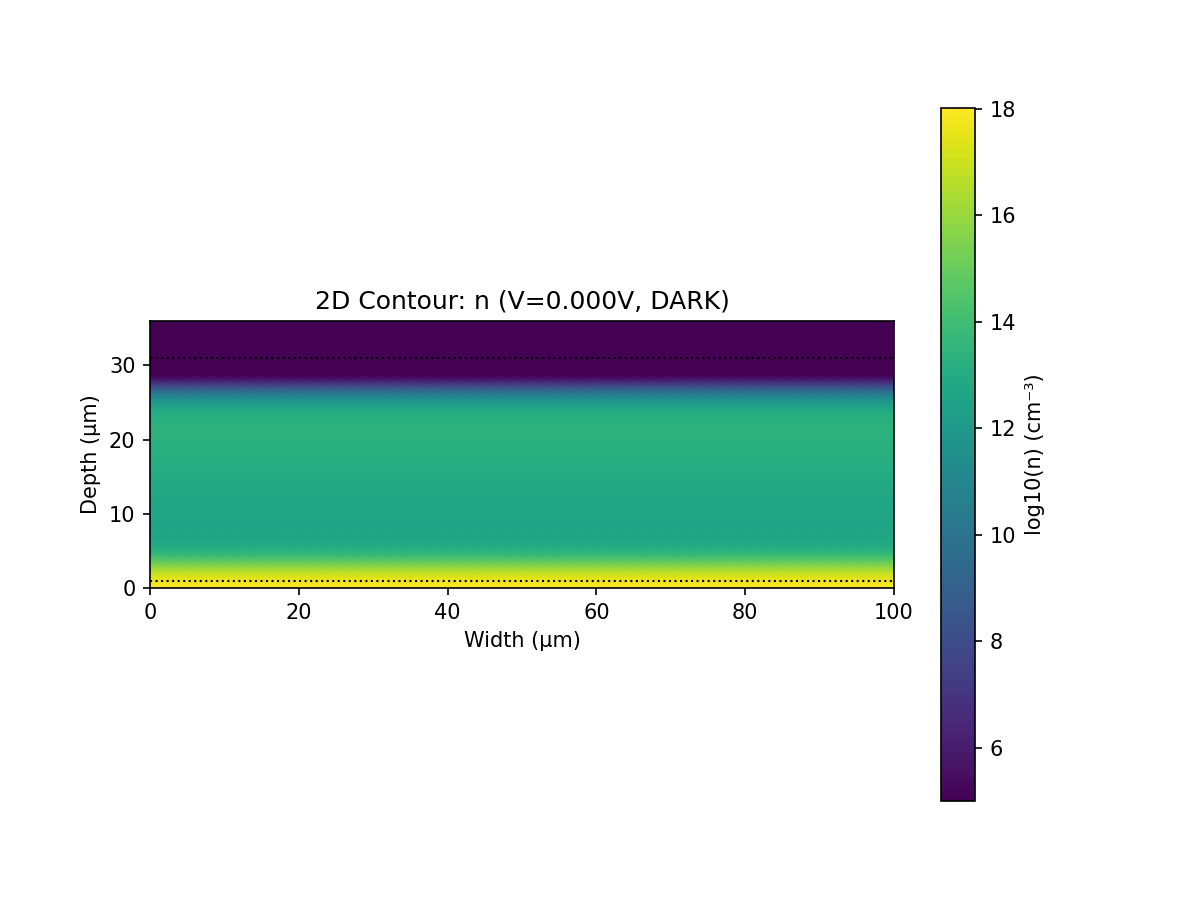
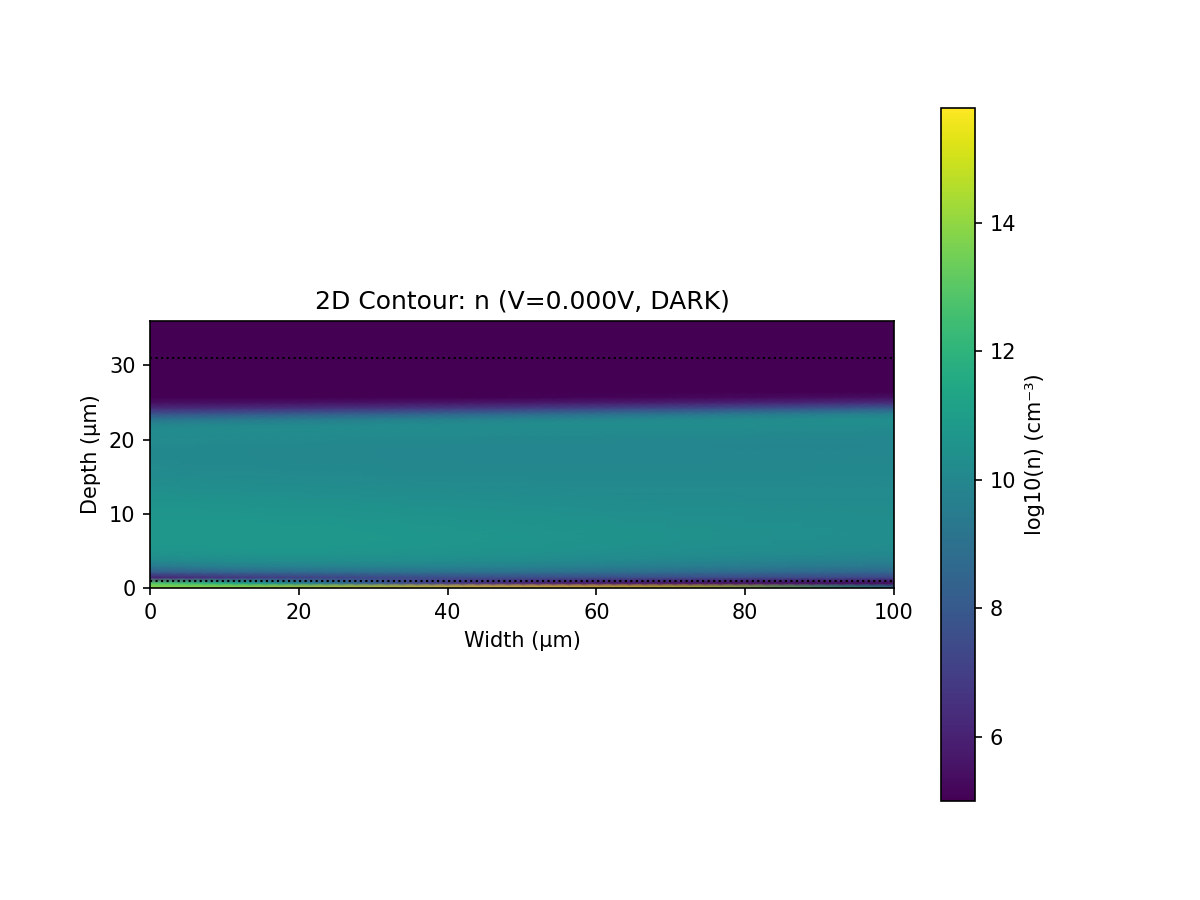
k

Changed region(s): [[0.1233, 0.4044, 0.7708, 0.6533], [0.8325, 0.2178, 0.8633, 0.2489], [0.8017, 0.8089, 0.8325, 0.84]]

diff --git a/diode_deepx/sim_diode.py b/diode_deepx/sim_diode.py
@@ -78,6 +78,26 @@ N_A_pplus = 1e18
 # Define Geometry in MICRONS
 geom = dde.geometry.Rectangle([0, 0], [width_um, y_total_um])
 
+def get_junction_distribution(n_points):
+    # Create dense grid near junctions (y_j1_um and y_j2_um)
+    x_rand = np.random.uniform(0, width_um, n_points)
+    
+    # 50% of points uniform, 50% Gaussian distributed around junctions
+    y_uniform = np.random.uniform(0, y_total_um, n_points // 2)
+    y_j1_dense = np.random.normal(y_j1_um, 0.5, n_points // 4) # Sigma = 0.5um
+    y_j2_dense = np.random.normal(y_j2_um, 0.5, n_points // 4)
+    
+    y_combined = np.concatenate([y_uniform, y_j1_dense, y_j2_dense])
+    
+    # Clip to domain
+    y_combined = np.clip(y_combined, 0, y_total_um)
+    
+    # Shuffle
+    xy = np.vstack((x_rand, y_combined)).T
+    np.random.shuffle(xy)
+    return xy.astype(np.float32)
+
+
 # --- Robustness: Characteristic Scales ---
 N_max = max(N_D_nplus, N_A_pplus)
 R_thermal = n_i / min(tau_n, tau_p)
@@ -105,7 +125,67 @@ def doping_profile(x_in):
 
     return Net_Doping
 
+def analytical_guess(x):
+    """
+    Returns [Psi_guess, Phi_n_guess, Phi_p_guess]
+    Approximates a step junction at equilibrium (V=0).
+    """
+    y = x[:, 1:2]
+    
+    # Approximate Psi based on doping regions
+    # n+ region
+    psi_n = V_t * np.log(N_D_nplus / n_i)
+    # p region
+    psi_p = -V_t * np.log(N_A_p / n_i)
+    # p+ region
+    psi_pp = -V_t * np.log(N_A_pplus / n_i)
+    
+    # Smooth transition using tanh (similar to doping profile)
+    k = 20.0 # MATCH THE DOPING PROFILE K VALUE EXACTLY
+    sig_1 = 0.5 * (1 + np.tanh(k * (y - y_j1_um)))
+    sig_2 = 0.5 * (1 + np.tanh(k * (y - y_j2_um)))
+    
+    psi_guess = psi_n * (1 - sig_1) + psi_p * (sig_1 * (1 - sig_2)) + psi_pp * sig_2
+    
+    # At V=0 equilibrium, Phi_n and Phi_p should be 0.0 everywhere
+    phi_n_guess = np.zeros_like(y)
+    phi_p_guess = np.zeros_like(y)
+    
+    return np.hstack((psi_guess, phi_n_guess, phi_p_guess))
 
+def pretrain_analytical(model, iters=5000):
+    print(">>> Pre-training on Analytical Guess (Stabilizing Physics)...")
+    
+    # Generate points
+    X_train = get_junction_distribution(2000)
+    Y_train = analytical_guess(X_train)
+    
+    # Define a standard MSE loss for fitting
+    def fitting_loss(y_true, y_pred):
+        return torch.mean(torch.square(y_true - y_pred))
+
+    # Standard PyTorch training loop on the model.net
+    optimizer = torch.optim.Adam(model.net.parameters(), lr=1e-3)
+    
+    model.net.train()
+    
+    # Force cast to .float() (float32) BEFORE moving to MPS device ---
+    X_tensor = torch.from_numpy(X_train).float().to(device).requires_grad_(False)
+    Y_tensor = torch.from_numpy(Y_train).float().to(device)
+    
+    start_t = time.time()
+    for i in range(iters):
+        optimizer.zero_grad()
+        y_pred = model.net(X_tensor)
+        loss = fitting_loss(Y_tensor, y_pred)
+        loss.backward()
+        optimizer.step()
+        
+        if i % 1000 == 0:
+            print(f"   Step {i}: Fitting Loss {loss.item():.2e}")
+            
+    print(f"   Pre-training complete in {time.time()-start_t:.1f}s")
+    
 # --- 3. OPTICAL GENERATION CLASS ---
 
 class OpticalGeneration:
@@ -151,30 +231,27 @@ optical_gen = OpticalGeneration()
 
 def pde_system_robust(x, u):
     """
-    Robust system with Anti-Explosion Clamping.
+    Robust QFP System with Normalized Scaling and Clamping.
     """
     psi = u[:, 0:1]
     phi_n = u[:, 1:2]
     phi_p = u[:, 2:3]
 
-    # --- 1. SAFE CARRIER CALCULATION ---
-    # Physics Limit: Max doping is ~1e18. 
-    # ln(1e18 / 1e10) = ln(1e8) ~= 18.4
-    # We clamp the exponent to 23.0 (approx 1e10 margin) to prevent NaN/Inf 
-    # but allow enough range for accumulation layers.
-    
-    limit = 23.0 
+    # --- 1. SAFE CARRIER CALCULATION (Clamping) ---
+    # We clamp the exponent to range [-30, 30]
+    # exp(30) is approx 1e13. Multiplied by n_i (1e10), this allows density up to 1e23.
+    # This is plenty for our 1e18 doping, but prevents NaN/Inf.
+    limit = 30.0 
     exp_arg_n = torch.clamp((psi - phi_n) / V_t, -limit, limit)
     exp_arg_p = torch.clamp((phi_p - psi) / V_t, -limit, limit)
 
     n = n_i * torch.exp(exp_arg_n)
     p = n_i * torch.exp(exp_arg_p)
     
-    # --- 2. Doping ---
+    # --- 2. Doping & Physics ---
     N_net = doping_profile(x)
     
-    # --- 3. Poisson's Equation ---
-    # Network outputs derivatives in [V / um] and [V / um^2]
+    # Derivatives (Remember: x is in microns, derivatives need 1/SCALE_L for cm)
     dpsi_x = dde.grad.jacobian(psi, x, i=0, j=0)
     dpsi_y = dde.grad.jacobian(psi, x, i=0, j=1)
     d2psi_x2 = dde.grad.jacobian(dpsi_x, x, i=0, j=0)
@@ -183,15 +260,19 @@ def pde_system_robust(x, u):
     # Laplacian in cm^-2
     laplacian_psi_cm = (d2psi_x2 + d2psi_y2) * (1.0 / SCALE_L)**2
     
+    # Charge Density
     rho = q * (p - n + N_net)
 
-    # SCALING POISSON: 
-    # Normalize by the maximum charge density q*N_max
+    # --- 3. SCALING FACTORS ---
+    # Poisson Scale: q * N_max
+    # Continuity Scale: N_max / tau (Order of magnitude of recombination)
     scale_poisson = q * N_max 
+    scale_continuity = N_max / min(tau_n, tau_p)
+
+    # --- 4. Poisson Equation ---
     eq1_poisson = (epsilon * laplacian_psi_cm + rho) / scale_poisson
 
-    # --- 4. Recombination & Generation ---
-    # Shockley-Read-Hall
+    # --- 5. Recombination & Generation ---
     U_num = n * p - n_i_sq
     U_den = tau_p * (n + n_i) + tau_n * (p + n_i)
     U = U_num / U_den
@@ -199,29 +280,25 @@ def pde_system_robust(x, u):
     # Optical Generation
     y_cm = x[:, 1:2] * SCALE_L
     G = optical_gen.get_generation_term(y_cm)
-
-    # --- 5. Drift-Diffusion Scaling ---
-    # The current J is huge (A/cm^2). We must normalize the CONTINUITY equation 
-    # so it produces residuals close to 1.0, not 1e20.
     
-    # Reference Current J_ref = q * D * N / L
-    # Or simpler: Normalize by the "Diffusion Rate" term: N_max / tau
-    scale_continuity = N_max / min(tau_n, tau_p)
+    # Net Rate
+    R_net = U - G
 
     # --- 6. Electron Continuity ---
+    # J_n = -q * mu_n * n * grad(phi_n)
+    # div(J_n) = -q * R_net  =>  div(mu*n*grad(phi)) = R_net
+    
     dphin_x = dde.grad.jacobian(phi_n, x, i=0, j=0) * (1.0 / SCALE_L)
     dphin_y = dde.grad.jacobian(phi_n, x, i=0, j=1) * (1.0 / SCALE_L)
 
-    # Fn flux (cm^-2 s^-1) = J/q
-    # We calculate flux directly to keep numbers slightly smaller than J
+    # Flux F = mu * n * grad(phi) (This is J/q)
     Fn_x = -mu_n * n * dphin_x
     Fn_y = -mu_n * n * dphin_y
     
-    # Divergence of Flux
     div_Fn = (dde.grad.jacobian(Fn_x, x, i=0, j=0) + \
               dde.grad.jacobian(Fn_y, x, i=0, j=1)) * (1.0 / SCALE_L)
 
-    eq2_electron = (div_Fn - G + U) / scale_continuity
+    eq2_electron = (div_Fn + R_net) / scale_continuity
 
     # --- 7. Hole Continuity ---
     dphip_x = dde.grad.jacobian(phi_p, x, i=0, j=0) * (1.0 / SCALE_L)
@@ -233,10 +310,8 @@ def pde_system_robust(x, u):
     div_Fp = (dde.grad.jacobian(Fp_x, x, i=0, j=0) + \
               dde.grad.jacobian(Fp_y, x, i=0, j=1)) * (1.0 / SCALE_L)
 
-    eq3_hole = (div_Fp - G + U) / scale_continuity
+    eq3_hole = (div_Fp + R_net) / scale_continuity
 
-    # Logarithmic Loss dampening (Optional but helpful if loss is still high)
-    # But usually, the clamp above fixes the root cause.
     return [eq1_poisson, eq2_electron, eq3_hole]
 
 
@@ -345,51 +420,55 @@ net.apply_feature_transform(feature_transform)
 
 def solve_photodiode_robust(V_bias, iters_stage1, iters_stage2, iters_stage3, initial_weights=None):
     
-    gen_status = "DARK" if optical_gen.is_dark else f"LIGHT"
+    gen_status = "DARK" if optical_gen.is_dark else "LIGHT"
     print("-" * 60)
     print(f"Solving for V_bias = {V_bias:.3f} V, {gen_status}")
 
+    # 1. Get Boundary Conditions
     bcs = get_bcs_robust(V_bias)
+    
+    # 2. SMART SAMPLING (The fix for flat profiles)
+    # We generate 2000 points, heavily focused on the junctions
+    anchors = get_junction_distribution(2000)
     
     data = dde.data.PDE(
         geom,
         pde_system_robust,
         bcs,
-        num_domain=2000,    # Reduced slightly for speed, increase if stable
-        num_boundary=500,
-        num_test=500
+        num_domain=0,      # We set this to 0 because we provide anchors
+        num_boundary=400,
+        anchors=anchors    # Explicitly use our smart distribution
     )
 
     model = dde.Model(data, net)
 
+    # 3. INITIALIZATION / PRE-TRAINING (The fix for 10^18 current)
     if initial_weights:
         model.net.load_state_dict(initial_weights)
+        print(">>> Loaded weights from previous step.")
     else:
-        # --- CRITICAL INITIALIZATION FIX ---
-        # We initialize weights to be very small (gain=0.01).
-        # This ensures initial outputs are ~0.0V, preventing exp(100) explosions.
-        def init_weights(m):
-            if isinstance(m, torch.nn.Linear):
-                torch.nn.init.xavier_normal_(m.weight, gain=0.01)
-                m.bias.data.fill_(0.0)
-        net.apply(init_weights)
+        # If no weights provided, this is the first run (V=0, Dark).
+        # We MUST pre-train on the analytical guess.
+        pretrain_analytical(model, iters=5000)
 
-    # Weights: Poisson usually converges fast, Continuity is hard.
-    # We give Continuity higher relative weight now that it's normalized correctly.
-    loss_weights = [10.0, 50.0, 50.0] + [100.0] * len(bcs)
+    # 4. LOSS WEIGHTS
+    # We give high weight to Continuity and very high weight to BCs
+    # [Poisson, Electron, Hole, BCs...]
+    loss_weights = [1.0, 20.0, 20.0] + [100.0] * len(bcs)
 
-    # STAGE 1: Fast coarse training
+    # STAGE 1: Standard Training
     if iters_stage1 > 0:
-        print("Stage 1: Coarse Training...")
-        model.compile("adam", lr=1e-3, loss_weights=loss_weights)
+        print("Stage 1: Training PDE...")
+        model.compile("adam", lr=1e-4, loss_weights=loss_weights)
         model.train(iterations=iters_stage1, display_every=1000)
 
-    # STAGE 2: Fine tuning
+    # STAGE 2: Refinement (Optional lower LR)
     if iters_stage2 > 0:
         print("Stage 2: Fine Tuning...")
-        model.compile("adam", lr=1e-4, loss_weights=loss_weights) # Lower LR
+        model.compile("adam", lr=2e-5, loss_weights=loss_weights)
         model.train(iterations=iters_stage2, display_every=1000)
 
+    # Return model and weights for the next voltage step
     import copy
     return model, copy.deepcopy(model.net.state_dict())
 
